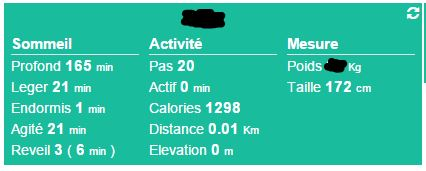
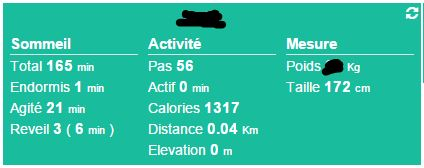
Fix

diff --git a/core/template/dashboard/fitbit.html b/core/template/dashboard/fitbit.html
@@ -6,24 +6,23 @@
     <div class="row" style="margin-left : 2px;margin-right : 2px;">
        <div class="col-sm-4" style="padding-right : 5px;padding-left : 5px;">
            <legend style="color:white;margin-bottom : 0px;font-size : 15px;font-weight: bold;">Sommeil</legend>
-           <span>Profond <strong style="font-size:1.1em;">#sleepDuration#</strong> <span style="font-size:0.8em;">min</span></span><br/>
-           <span>Leger <strong style="font-size:1.1em;">#restlessDuration#</strong> <span style="font-size:0.8em;">min</span></span><br/>
-           <span>Endormis <strong style="font-size:1.1em;">#minutesToFallAsleep#</strong> <span style="font-size:0.8em;">min</span></span><br/>
-           <span>Agité <strong style="font-size:1.1em;">#restlessDuration#</strong> <span style="font-size:0.8em;">min</span></span><br/>
-           <span>Reveil <strong style="font-size:1.1em;">#awakeCount#</strong> ( <strong style="font-size:1.1em;">#awakeDuration#</strong> <span style="font-size:0.8em;">min</span> )</span>
+           <span>Total <strong class="tooltips" title="#sleepDuration_collect#" style="font-size:1.1em;">#sleepDuration#</strong> <span style="font-size:0.8em;">min</span></span><br/>
+           <span>Endormis <strong class="tooltips" title="#minutesToFallAsleep_collect#" style="font-size:1.1em;">#minutesToFallAsleep#</strong> <span style="font-size:0.8em;">min</span></span><br/>
+           <span>Agité <strong class="tooltips" title="#restlessDuration_collect#" style="font-size:1.1em;">#restlessDuration#</strong> <span style="font-size:0.8em;">min</span></span><br/>
+           <span>Reveil <strong class="tooltips" title="#awakeCount_collect#" style="font-size:1.1em;">#awakeCount#</strong> ( <strong class="tooltips" title="#awakeDuration_collect#" style="font-size:1.1em;">#awakeDuration#</strong> <span style="font-size:0.8em;">min</span> )</span>
        </div>
        <div class="col-sm-4" style="padding-right : 5px;padding-left : 5px;">
            <legend style="color:white;margin-bottom : 0px;font-size : 15px;font-weight: bold;">Activité</legend>
-           <span class="step #step_history#">Pas <strong style="font-size:1.1em;">#step#</strong></span><br/>
-           <span class="veryActiveMinutes #veryActiveMinutes_history#">Actif <strong style="font-size:1.1em;">#veryActiveMinutes#</strong> <span style="font-size:0.8em;">min</span></span><br/>
-           <span class="caloriesOut #caloriesOut_history#">Calories <strong style="font-size:1.1em;">#caloriesOut#</strong></span><br/>
-           <span class="distance #distance_history#">Distance <strong style="font-size:1.1em;">#distance#</strong> <span style="font-size:0.8em;">Km</span></span><br/>
-           <span class="elevation #elevation_history#">Elevation <strong style="font-size:1.1em;">#elevation#</strong> <span style="font-size:0.8em;">m</span></span>
+           <span class="step #step_history#">Pas <strong class="tooltips" title="#step_collect#" style="font-size:1.1em;">#step#</strong></span><br/>
+           <span class="veryActiveMinutes #veryActiveMinutes_history#">Actif <strong class="tooltips" title="#veryActiveMinutes_collect#" style="font-size:1.1em;">#veryActiveMinutes#</strong> <span style="font-size:0.8em;">min</span></span><br/>
+           <span class="caloriesOut #caloriesOut_history#">Calories <strong class="tooltips" title="#caloriesOut_collect#" style="font-size:1.1em;">#caloriesOut#</strong></span><br/>
+           <span class="distance #distance_history#">Distance <strong class="tooltips" title="#distance_collect#" style="font-size:1.1em;">#distance#</strong> <span style="font-size:0.8em;">Km</span></span><br/>
+           <span class="elevation #elevation_history#">Elevation <strong class="tooltips" title="#elevation_collect#" style="font-size:1.1em;">#elevation#</strong> <span style="font-size:0.8em;">m</span></span>
        </div>
        <div class="col-sm-4" style="padding-right : 5px;padding-left : 5px;">
            <legend style="color:white;margin-bottom : 0px;font-size : 15px;font-weight: bold;">Mesure</legend>
-           <span class="weight #weight_history#">Poids <strong style="font-size:1.1em;">#weight#</strong> <span style="font-size:0.8em;">Kg</span></span><br/>
-           <span class="height #height_history#">Taille <strong style="font-size:1.1em;">#height#</strong> <span style="font-size:0.8em;">cm</span></span>
+           <span class="weight #weight_history#">Poids <strong class="tooltips" title="#weight_collect#" style="font-size:1.1em;">#weight#</strong> <span style="font-size:0.8em;">Kg</span></span><br/>
+           <span class="height #height_history#">Taille <strong class="tooltips" title="#height_collect#" style="font-size:1.1em;">#height#</strong> <span style="font-size:0.8em;">cm</span></span>
        </div>
    </div>
    <script>
